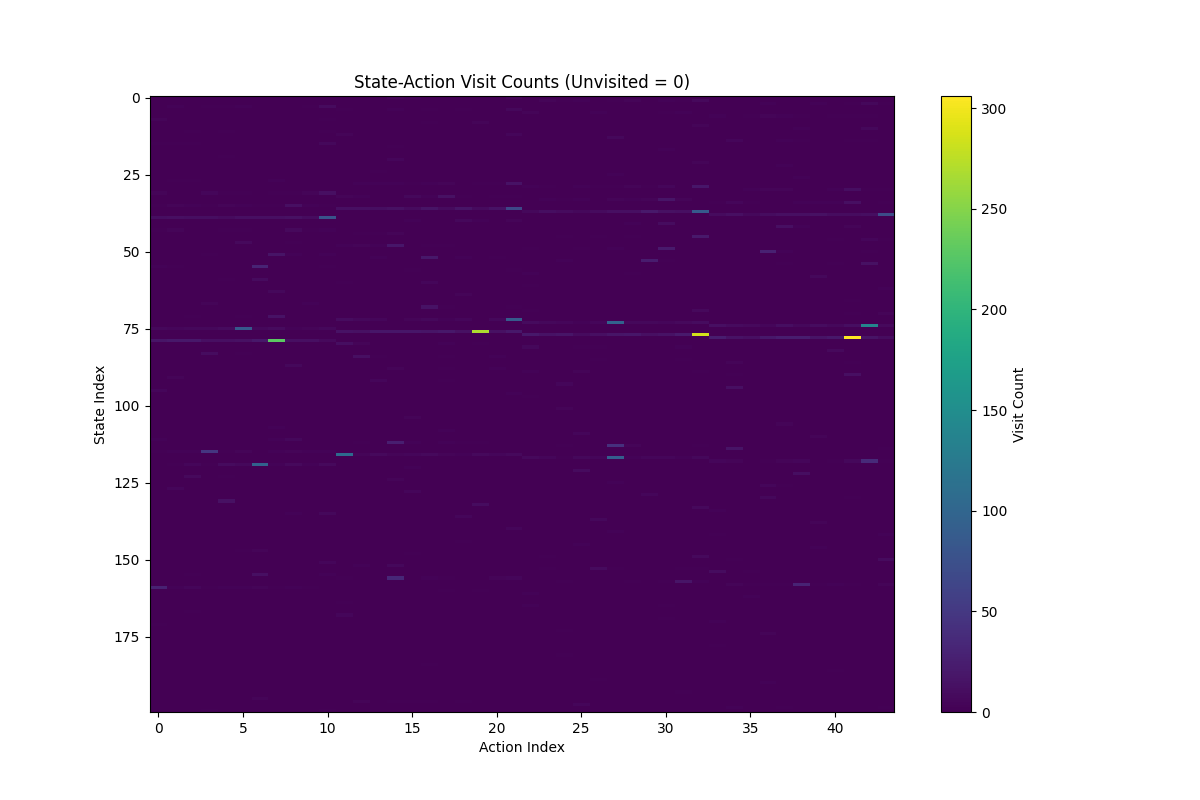
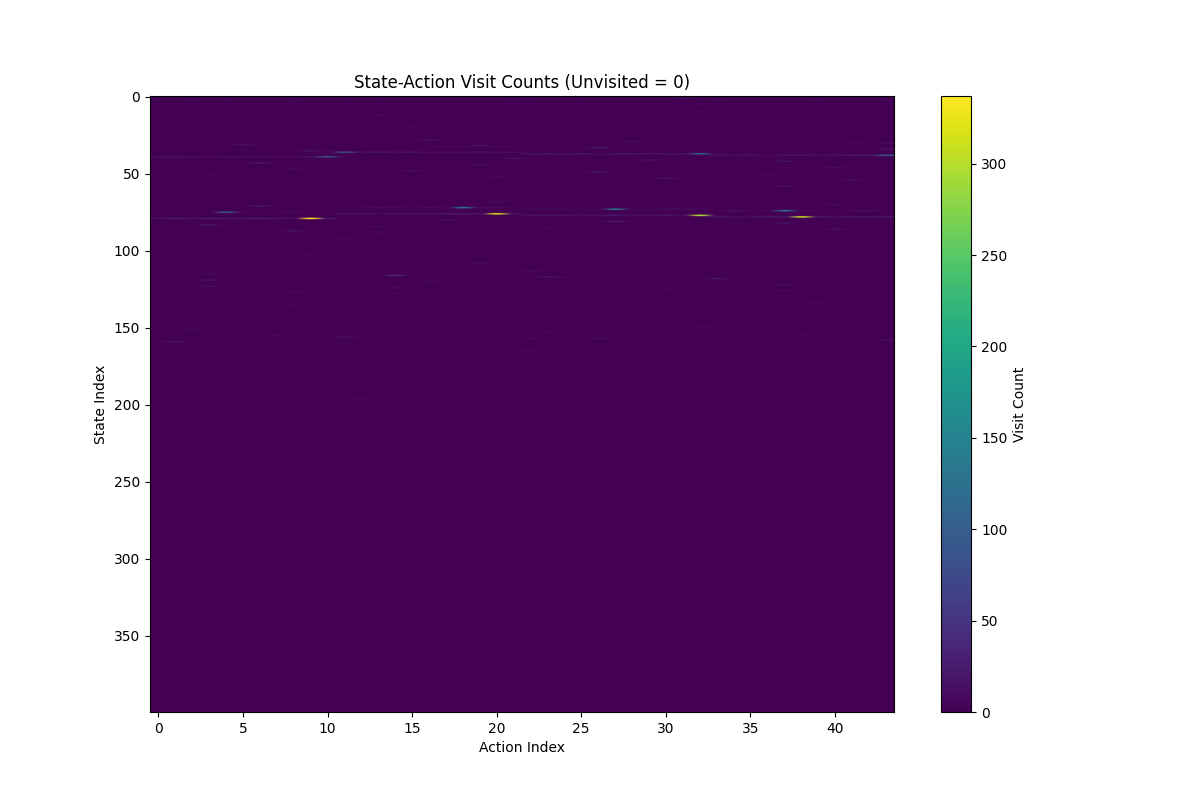
discretization problem

diff --git a/system/callback.py b/system/callback.py
@@ -574,6 +574,7 @@ def update_shewhart_chart(rate_btn_clicks, reset_clicks, sim_intervals, window_s
     Output("sys-simulation-output", "children"),
     Output("sys-sim-params", "data"),
     Output("sys-simulation-graph", "figure"),
+    Output("sys-engagement-graph", "figure"),
     Input("sys-sim-init-btn", "n_clicks"),
     Input("sys-sim-append-btn", "n_clicks"),
     *[State(f"sys-sim-{f}", "value") for f in [
@@ -591,7 +592,7 @@ def handle_sys_sim_actions(init_clicks, append_clicks,
                            current_params):
     import dash
     ctx = dash.callback_context
-    global rf_models, q_table, df_global
+    global rf_models, q_table, df_global, simpsons_integral, simpsons_bucket
     param_names = [
         'engagement_rate', 'time_on_task_s', 'hint_ratio', 'interaction_count',
         'task_completed', 'quiz_score', 'difficulty', 'error_rate',
@@ -617,7 +618,7 @@ def handle_sys_sim_actions(init_clicks, append_clicks,
             return html.Div(
                 f"Please train the following before initializing the simulation: {', '.join(missing)}.",
                 style={"color": "red", "fontWeight": "bold"}
-            ), current_params, go.Figure()
+            ), current_params, go.Figure(), go.Figure()
 
         # Cast values to the correct types
         try:
@@ -632,7 +633,7 @@ def handle_sys_sim_actions(init_clicks, append_clicks,
             task_timed_out = int(task_timed_out)
             time_before_hint_used = int(time_before_hint_used)
         except ValueError as e:
-            return html.Div(f"Type conversion error: {e}"), current_params, go.Figure()
+            return html.Div(f"Type conversion error: {e}"), current_params, go.Figure(), go.Figure()
 
         df_global = None
 
@@ -642,10 +643,13 @@ def handle_sys_sim_actions(init_clicks, append_clicks,
             task_timed_out, time_before_hint_used, prev_type
         )))
 
+         # Add num_buckets to new_params with a default value, or read the value if there is a value
+        new_params['num_buckets'] = current_params.get('num_buckets', 10)
+
         return html.Div(
             "Simulation initialized! (You can now proceed with your simulation steps.)",
             style={"color": "green", "fontWeight": "bold"}
-        ), new_params, go.Figure()
+        ), new_params, go.Figure(), go.Figure()
 
     # Validation for append
     if trigger == "sys-sim-append-btn":
@@ -658,7 +662,7 @@ def handle_sys_sim_actions(init_clicks, append_clicks,
             return html.Div(
                 f"Please train the following before appending simulation data: {', '.join(missing)}.",
                 style={"color": "red", "fontWeight": "bold"}
-            ), current_params, go.Figure()
+            ), current_params, go.Figure(), go.Figure()
 
         errors = []
         if not (0.0 <= float(engagement_rate) <= 1.0):
@@ -688,7 +692,7 @@ def handle_sys_sim_actions(init_clicks, append_clicks,
             return html.Div([
                 html.P("Input validation failed:", style={"color": "red", "fontWeight": "bold"}),
                 html.Ul([html.Li(e) for e in errors])
-            ]), current_params, go.Figure() # Return stored parameters
+            ]), current_params, go.Figure(), go.Figure() # Return stored parameters
 
         import pandas as pd
         input_data = dict(zip(param_names, input_values))
@@ -709,7 +713,7 @@ def handle_sys_sim_actions(init_clicks, append_clicks,
         cognitive_load = reg_pred[0]
         engagement_level = int(clf_pred[0])
     except Exception as e:
-        return html.Div(f"Prediction failed: {e}"), current_params, go.Figure()
+        return html.Div(f"Prediction failed: {e}"), current_params, go.Figure(), go.Figure()
 
     # Append to global DataFrame
     if df_global is None:
@@ -732,25 +736,51 @@ def handle_sys_sim_actions(init_clicks, append_clicks,
     else:
         kalman_msg = "Kalman filter will be applied after 3 data points."
 
-    # Generate Plotly figure
-    fig = go.Figure()
-    fig.add_trace(go.Scatter(x=df_global.index, y=df_global["cognitive_load"],
+    # Compute Simpson's integral and bucketization on cognitive load
+    h = 3  # Step size for Simpson's rule
+    if df_global is not None and 'smoothed_cognitive_load' in df_global.columns:
+        simpsons_integral = simpsons_rule(df_global['smoothed_cognitive_load'], h)
+        # Pass the num_buckets from state, default to 10 if missing (or any suitable default)
+        num_buckets = current_params.get('num_buckets', 10)
+        simpsons_bucket = discretize_simpsons_result(simpsons_integral, num_buckets=num_buckets)
+        cognitive_level = simpsons_bucket
+    else:
+        simpsons_integral = None
+        simpsons_bucket = None
+        cognitive_level = None
+
+    # Generate cognitive load figure (same as before)
+    fig_cognitive = go.Figure()
+    fig_cognitive.add_trace(go.Scatter(x=df_global.index, y=df_global["cognitive_load"],
                             mode="lines+markers", name="Original Cognitive Load"))
     if 'smoothed_cognitive_load' in df_global.columns:
-        fig.add_trace(go.Scatter(x=df_global.index, y=df_global["smoothed_cognitive_load"],
+        fig_cognitive.add_trace(go.Scatter(x=df_global.index, y=df_global["smoothed_cognitive_load"],
                                 mode="lines+markers", name="Kalman Smoothed"))
-    fig.update_layout(title="Cognitive Load and Kalman Smoothing",
+    fig_cognitive.update_layout(title="Cognitive Load and Kalman Smoothing",
                       xaxis_title="Index",
                       yaxis_title="Cognitive Load")
 
-    # If all checks pass, you can append/store/process the data as needed
+    # Generate engagement level figure with cognitive level as a horizontal line
+    fig_engagement = go.Figure()
+    if df_global is not None and "engagement_level" in df_global.columns:
+        fig_engagement.add_trace(go.Scatter(x=df_global.index, y=df_global["engagement_level"],
+                                           mode="lines+markers", name="Engagement Level"))
+    if cognitive_level is not None:
+        fig_engagement.add_hline(y=cognitive_level, line_dash="dash", line_color="red",
+                                annotation_text=f"Cognitive Level (Bucket): {cognitive_level}",
+                                annotation_position="top right")
+    fig_engagement.update_layout(title="Engagement Level with Cognitive Level",
+                                 xaxis_title="Index",
+                                 yaxis_title="Engagement Level")
+
+    # Return all outputs
     return html.Div([
         html.P("Input parameters appended successfully!",
                style={"color": "green", "fontWeight": "bold"}),
         html.P(f"Predicted Cognitive Load: {cognitive_load:.2f}"),
         html.P(f"Predicted Engagement Level: {engagement_level}"),
         html.P(kalman_msg),
-    ]), current_params, fig # Return the same params
+    ]), current_params, fig_cognitive, fig_engagement
         
 
         

diff --git a/system/app.py b/system/app.py
@@ -203,9 +203,9 @@ def simpson_panel():
         dcc.Slider(
             id="simpson-bucket-num",
             min=3,
-            max=10,
+            max=20,
             step=1,
-            value=5,
+            value=10,
             marks={i: str(i) for i in range(3, 11)},
             tooltip={"placement": "bottom", "always_visible": True}
         ),
@@ -246,7 +246,7 @@ def qlearning_panel():
         ], className="mb-2"),
         dbc.Row([
             dbc.Col(html.Label("Number of Buckets (Simpson):"), width=4),
-            dbc.Col(dcc.Input(id="qlearn-buckets", type="number", value=5, min=3, max=10, step=1, style={"width": "100%"}), width=8)
+            dbc.Col(dcc.Input(id="qlearn-buckets", type="number", value=10, min=3, max=20, step=1, style={"width": "100%"}), width=8)
         ], className="mb-2"),
     ]
     # Testing input fields
@@ -329,6 +329,7 @@ def sys_simulation_panel():
         ('task_timed_out', "Task Timed Out", "0 or 1", 0),
         ('time_before_hint_used', "Time Before Hint Used", "Positive integer (seconds)", 120),
         ('prev_type', "Previous Task Type (A/B/C/D)", "Single letter: A, B, C, or D", 'A'),
+        ('num_buckets', "Number of buckets", "Number of bucket use for Simpson's Rule", 10), # <-- ADD THIS
     ]
     default_values = {field: default for field, _, _, default in param_fields}
     # Arrange inputs in two columns with info
@@ -356,7 +357,10 @@ def sys_simulation_panel():
         dbc.Button("Initialize", id="sys-sim-init-btn", n_clicks=0, color="primary", className="mb-2"),
         dbc.Button("Append", id="sys-sim-append-btn", n_clicks=0, color="success", className="mb-2", style={"marginLeft": "10px"}),
         html.Div(id="sys-simulation-output", className="mt-3"),
-        dcc.Graph(id="sys-simulation-graph", figure=go.Figure()),
+        dbc.Row([
+            dbc.Col(dcc.Graph(id="sys-simulation-graph", figure=go.Figure()), width=6),
+            dbc.Col(dcc.Graph(id="sys-engagement-graph", figure=go.Figure()), width=6)
+        ]),
         dbc.Row([
             dbc.Col(left_col, width=6),
             dbc.Col(right_col, width=6)
